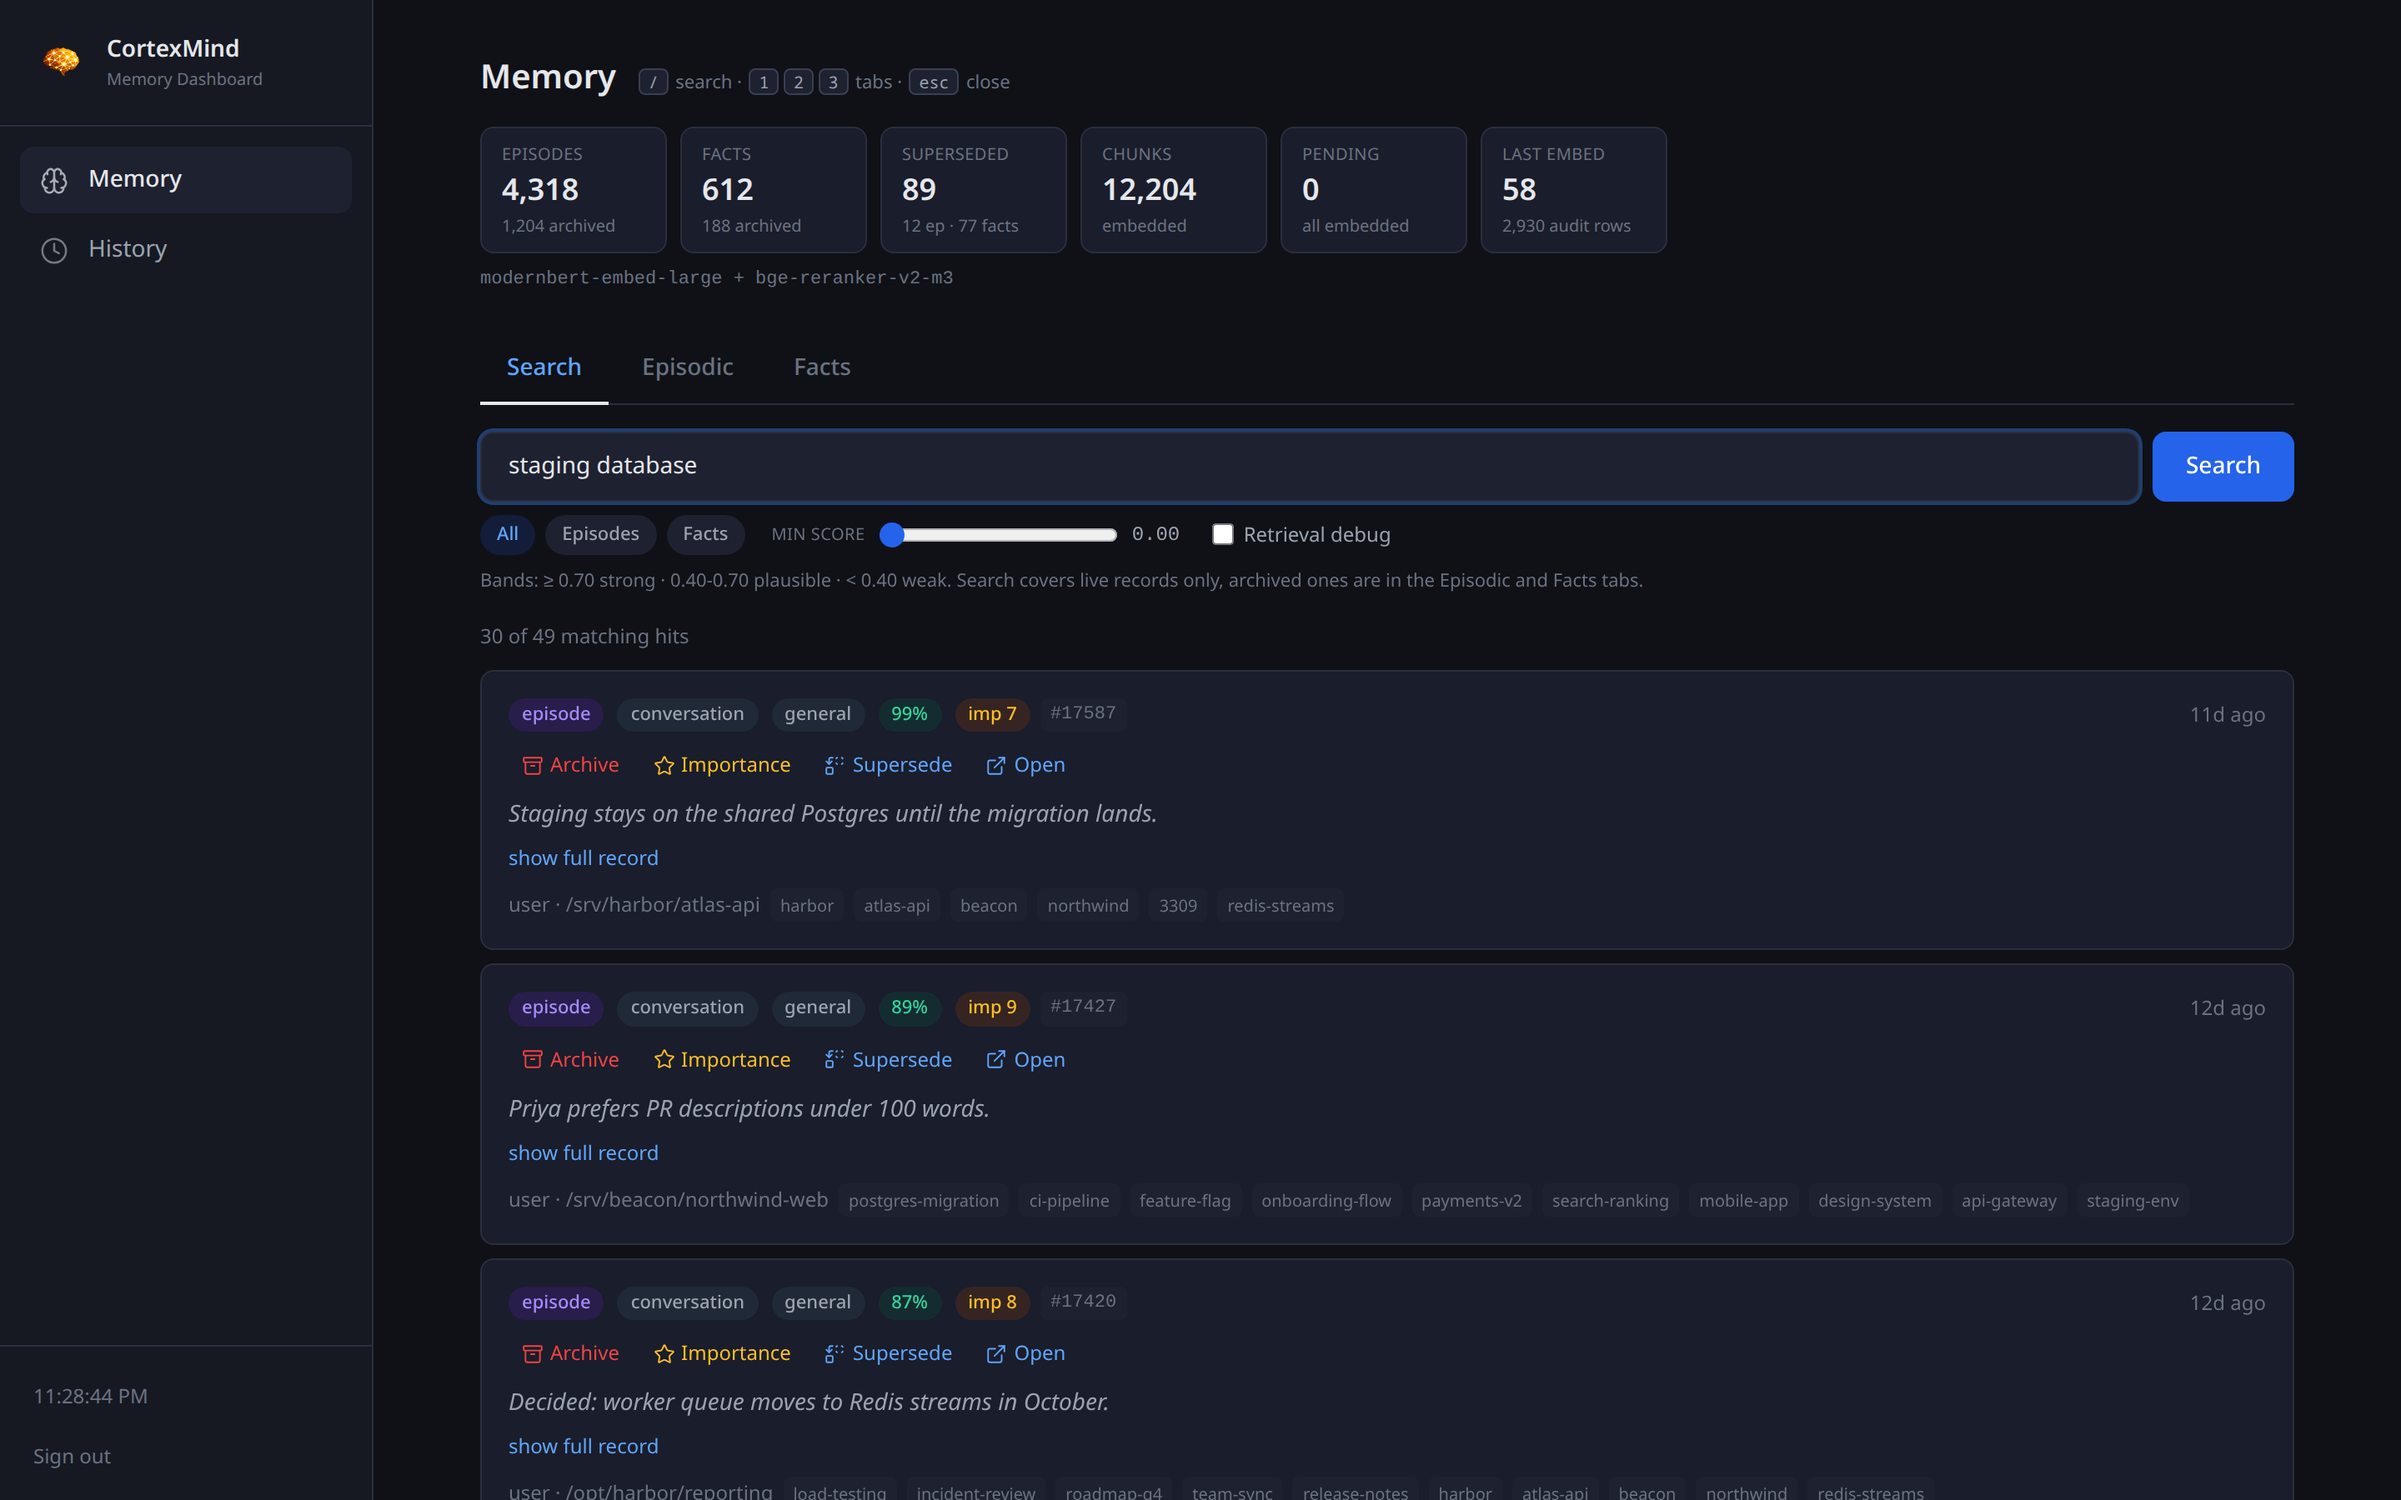
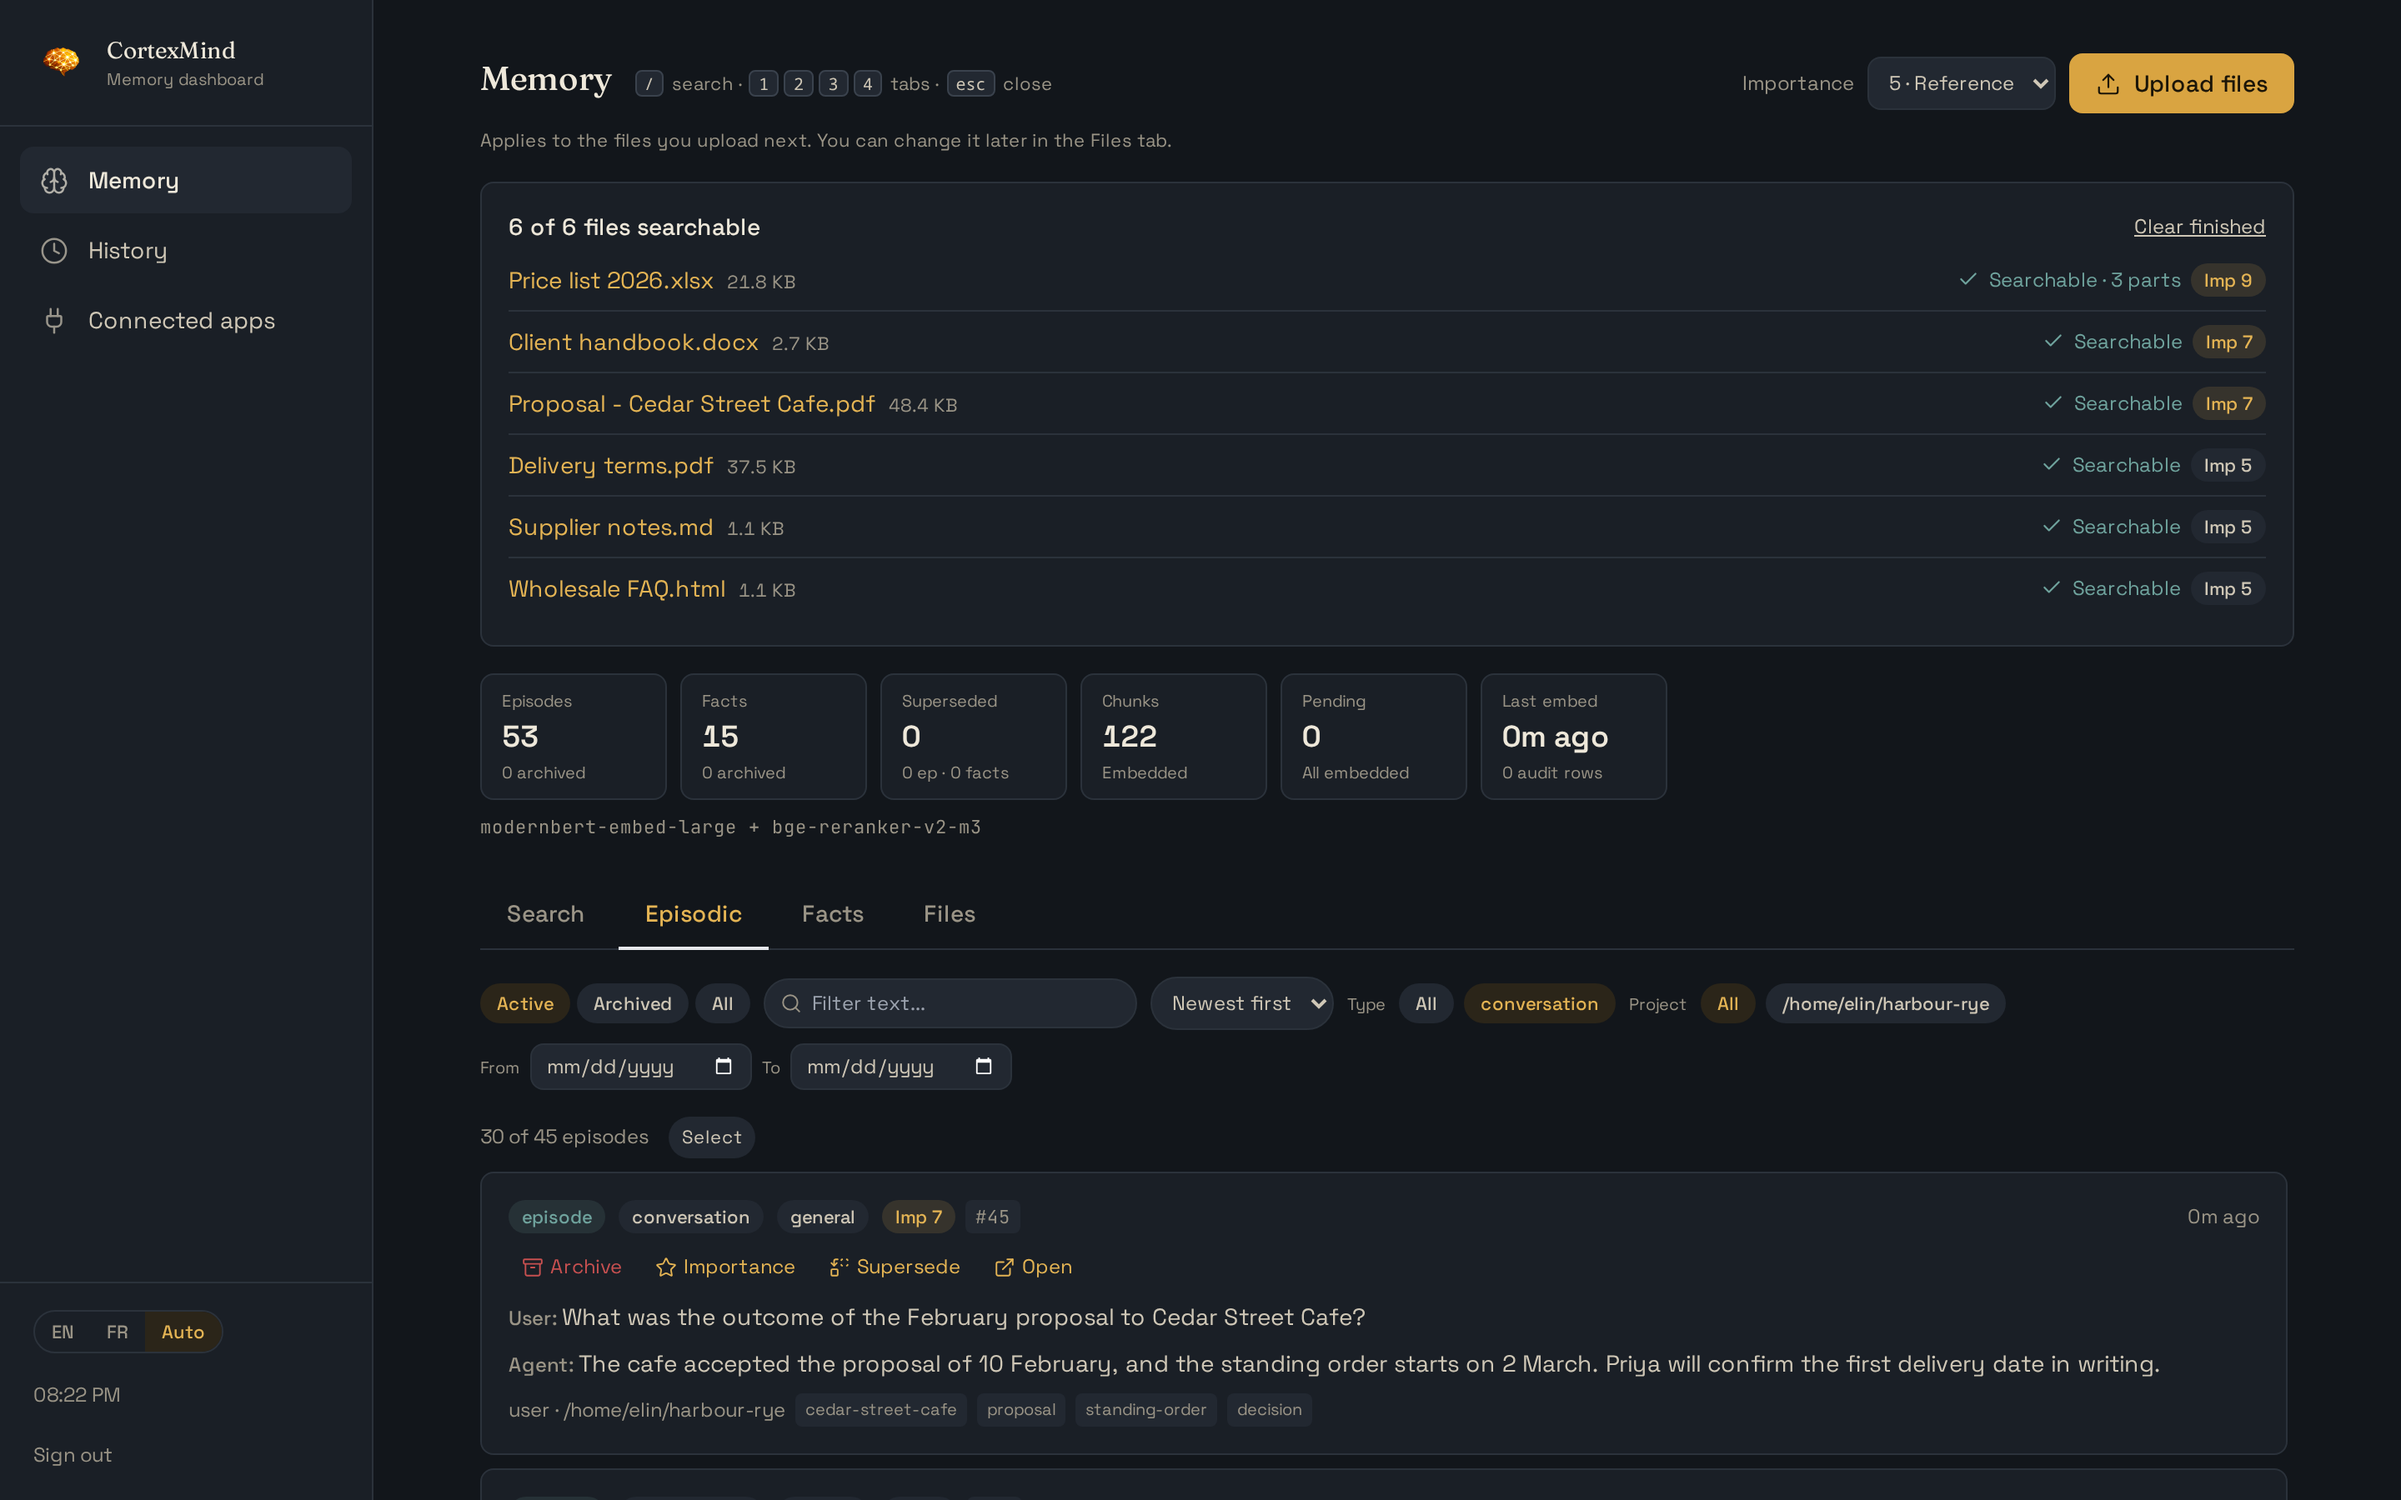
home: show file upload and refresh the dashboard screenshot
New section for CortexMind 5 file upload with the Files tab, in English
and French, and a current dashboard screenshot.

diff --git a/src/routes/[[locale=locale]]/+page.svelte b/src/routes/[[locale=locale]]/+page.svelte
@@ -239,6 +239,22 @@
   </div>
 </section>
 
+<section class="upload">
+  <div class="wrap">
+    <div class="upload-frame">
+      <a href="/media/dashboard-files-1440.png" target="_blank" rel="noopener" class="upload-scroll">
+        <img src="/media/dashboard-files-1440.png" alt={$t('home.upload.image_alt')} loading="lazy" decoding="async" width="2880" height="1800" />
+      </a>
+    </div>
+    <div class="upload-text">
+      <span class="release-pill upload-eyebrow">{$t('home.upload.eyebrow')}</span>
+      <h2>{$t('home.upload.title')}</h2>
+      <p>{$t('home.upload.p1')}</p>
+      <p>{$t('home.upload.p2')}</p>
+    </div>
+  </div>
+</section>
+
 <section class="dashboard">
   <div class="wrap">
     <div class="dashboard-frame">
@@ -535,6 +551,18 @@
   .dashboard-text { display: grid; grid-template-columns: 1fr 1fr; gap: 48px; margin-top: 40px; }
   .dashboard-text p { color: var(--text-2); max-width: none; }
 
+  /* Upload */
+  .upload-frame {
+    border: 1px solid var(--line); border-radius: 12px; overflow: hidden;
+    box-shadow: 0 25px 70px rgba(0,0,0,.35);
+  }
+  .upload-frame img { display: block; width: 100%; height: auto; }
+  .upload-scroll { display: block; }
+  .upload-text { display: grid; grid-template-columns: 1fr 1fr; gap: 16px 48px; margin-top: 40px; }
+  .upload-eyebrow { grid-column: 1 / -1; justify-self: start; }
+  .upload-text h2 { grid-column: 1 / -1; margin-bottom: 8px; }
+  .upload-text p { color: var(--text-2); max-width: none; }
+
   /* Local */
   .local h2 { margin-bottom: 40px; }
   .compound h2 { margin-bottom: 16px; }
@@ -612,7 +640,7 @@
   .cta-content { position: relative; z-index: 1; display: flex; flex-direction: column; align-items: center; gap: 20px; }
 
   @media (max-width: 800px) {
-    .problem-grid, .retrieval-grid, .boot-grid, .steps-grid, .local-grid, .plans, .platforms, .dashboard-text, .added-grid {
+    .problem-grid, .retrieval-grid, .boot-grid, .steps-grid, .local-grid, .plans, .platforms, .dashboard-text, .upload-text, .added-grid {
       grid-template-columns: 1fr;
     }
     .added { padding: 60px 0; }
@@ -620,6 +648,9 @@
     .dashboard-frame { overflow-x: auto; -webkit-overflow-scrolling: touch; }
     .dashboard-scroll { width: 1100px; }
     .dashboard-frame img { width: 1100px; max-width: none; }
+    .upload-frame { overflow-x: auto; -webkit-overflow-scrolling: touch; }
+    .upload-scroll { width: 1100px; }
+    .upload-frame img { width: 1100px; max-width: none; }
     .local-col { border-left: none; border-top: 1px solid var(--line); padding: 24px 0 0; }
     .local-col:first-child { border-top: none; padding-top: 0; }
     .hero-content { padding-top: 120px; }
